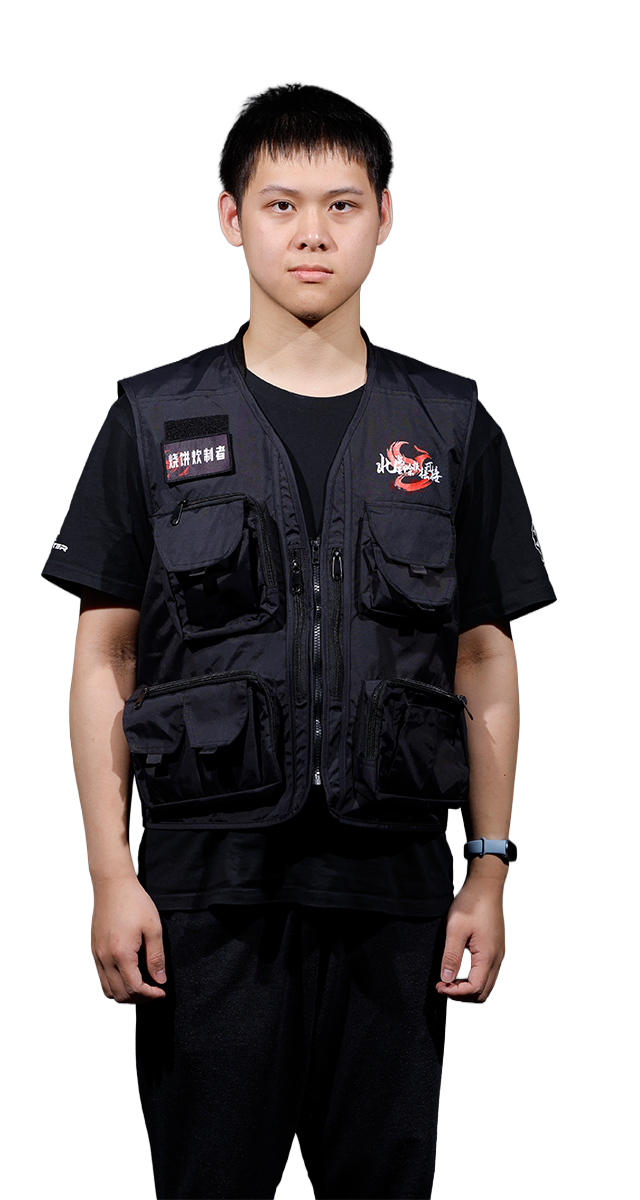
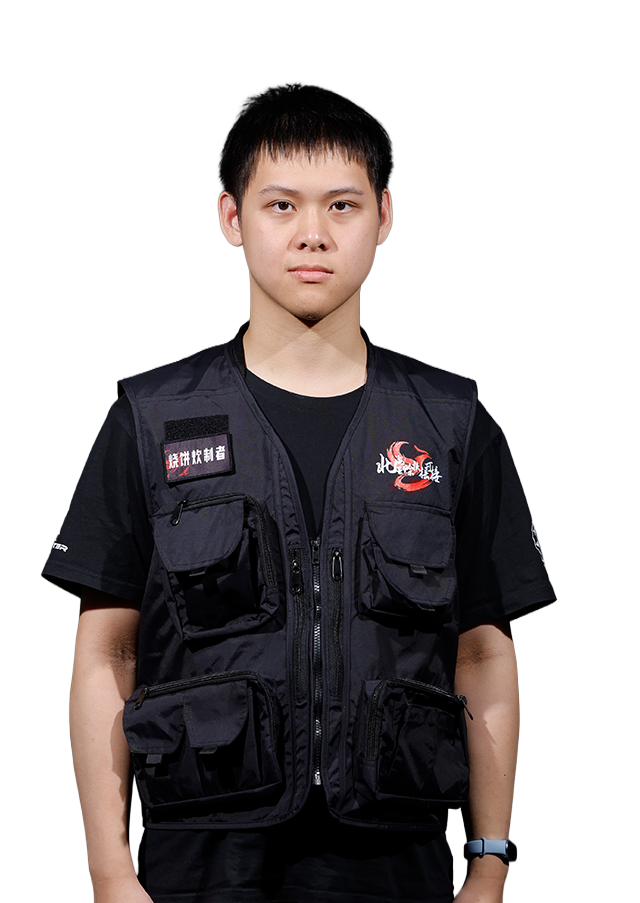
fix: 更新图片路径和项目标签
- 将work2.png替换为work2.jpg并更新相关引用
- 统一背景图片路径到project-portfolio目录
- 优化项目标签，将"Embedded System"统一改为"STM32"
- 调整关于页面的统计数据格式

diff --git a/src/sections/Projects.tsx b/src/sections/Projects.tsx
@@ -61,7 +61,7 @@ const projects: Project[] = [
     subtitle: 'Bio-inspired Adhesive Robot for Wall Transition',
     description: '基于范德华力粘附机理的轮足式爬壁机器人，面向太空巡检场景中的多倾角表面连续过渡需求，实现全空间灵活机动。',
     image: '/project-portfolio/project3.gif',
-    tags: ['Bionic Design', 'Adhesion Mechanism', 'Embedded System', 'Control Systems'],
+    tags: ['Bionic Design', 'Adhesion Mechanism', 'STM32'],
     category: '科研项目',
     year: '2025',
     githubUrl: 'https://github.com/cmyhj/ClimBot',
@@ -79,7 +79,7 @@ const projects: Project[] = [
     subtitle: 'Autonomous Patrol Robot for Complex Environments',
     description: '集侦、识、打功能于一体的狭窄空间自主巡防机器人，优化通信协议与底盘控制。',
     image: '/project-portfolio/project16.png',
-    tags: ['Robotics', 'Embedded System', 'Control Algorithm', 'Communication Protocol'],
+    tags: ['Robotics', 'STM32', 'Control Algorithm', 'Communication Protocol'],
     category: '竞赛项目',
     year: '2024',
     githubUrl: 'https://github.com/bandetip/sentinel',
@@ -276,7 +276,7 @@ const projects: Project[] = [
     subtitle: 'Rescue Robot Control System',
     description: '面向灾害救援场景的异构机器人控制系统，集成多传感器融合定位、自适应差速底盘控制与多自由度执行器协同，实现复杂地形下的物资搜寻与精准搬运。',
     image: '/project-portfolio/project7.gif',
-    tags: ['Embedded System', 'RTOS', 'Control Theory', 'Sensor Fusion'],
+    tags: ['STM32', 'RTOS', 'Control Theory', 'Sensor Fusion'],
     category: '竞赛项目',
     year: '2024',
     githubUrl: 'https://github.com/cmyhj/broomaster',
@@ -293,7 +293,7 @@ const projects: Project[] = [
     subtitle: 'Autonomous Navigation with Obstacle Avoidance',
     description: '基于超声波阵列与红外传感的嵌入式导航实验平台，实现动态环境下的实时避障与路径重规划。',
     image: '/project-portfolio/project8.gif',
-    tags: ['Embedded Systems', 'Sensor Fusion', 'Real-time Control'],
+    tags: ['STM32s', 'Sensor Fusion', 'Real-time Control'],
     category: '个人项目',
     year: '2023',
     details: {

diff --git a/src/sections/About.tsx b/src/sections/About.tsx
@@ -55,8 +55,8 @@ const About = () => {
   }, []);
 
   const stats = [
-    { number: 20, label: '研发机器人', suffix: '+' },
-    { number: 10, label: '国家级奖项', suffix: '' },
+    { number: 16, label: '参与研发机器人', suffix: '款' },
+    { number: 10, label: '国家级奖项', suffix: '项' },
     { number: 300, label: '社区技术影响', suffix: '+' },
     { number: 10, label: '项目工程', suffix: '+' },
   ];
@@ -120,7 +120,7 @@ const About = () => {
           {/* Right stats */}
           <div ref={statsRef} className="grid grid-cols-2 gap-6">
             {stats.map((stat, index) => {
-              const bgImages = ['/bgImages1.jpg', '/bgImages2.jpg', '/bgImages3.jpg', '/bgImages4.jpg'];
+              const bgImages = ['/project-portfolio/bgImages1.jpg', '/project-portfolio/bgImages2.jpg', '/project-portfolio/bgImages3.jpg', '/project-portfolio/bgImages4.jpg'];
               return (
                 <div
                   key={index}

diff --git a/src/sections/Skills.tsx b/src/sections/Skills.tsx
@@ -74,7 +74,7 @@ const Skills = () => {
       <div className="absolute inset-0 z-0">
         <div 
           className="absolute inset-0 bg-cover bg-center bg-no-repeat"
-          style={{ backgroundImage: 'url(/bgImages_skill.jpg)' }}
+          style={{ backgroundImage: 'url(/project-portfolio/bgImages_skill.jpg)' }}
         />
         <div className="absolute inset-0 bg-gradient-to-br from-black/80 via-black/70 to-black/80" />
       </div>

diff --git a/src/sections/Experience.tsx b/src/sections/Experience.tsx
@@ -40,7 +40,7 @@ const experiences: ExperienceItem[] = [
       '实现基于A*/TEB算法的路径规划，导航成功率95%',
       '参与机器人导航系统的硬件选型和调试',
     ],
-    image: '/project-portfolio/work2.png',
+    image: '/project-portfolio/work2.jpg',
   },
 ];
 
